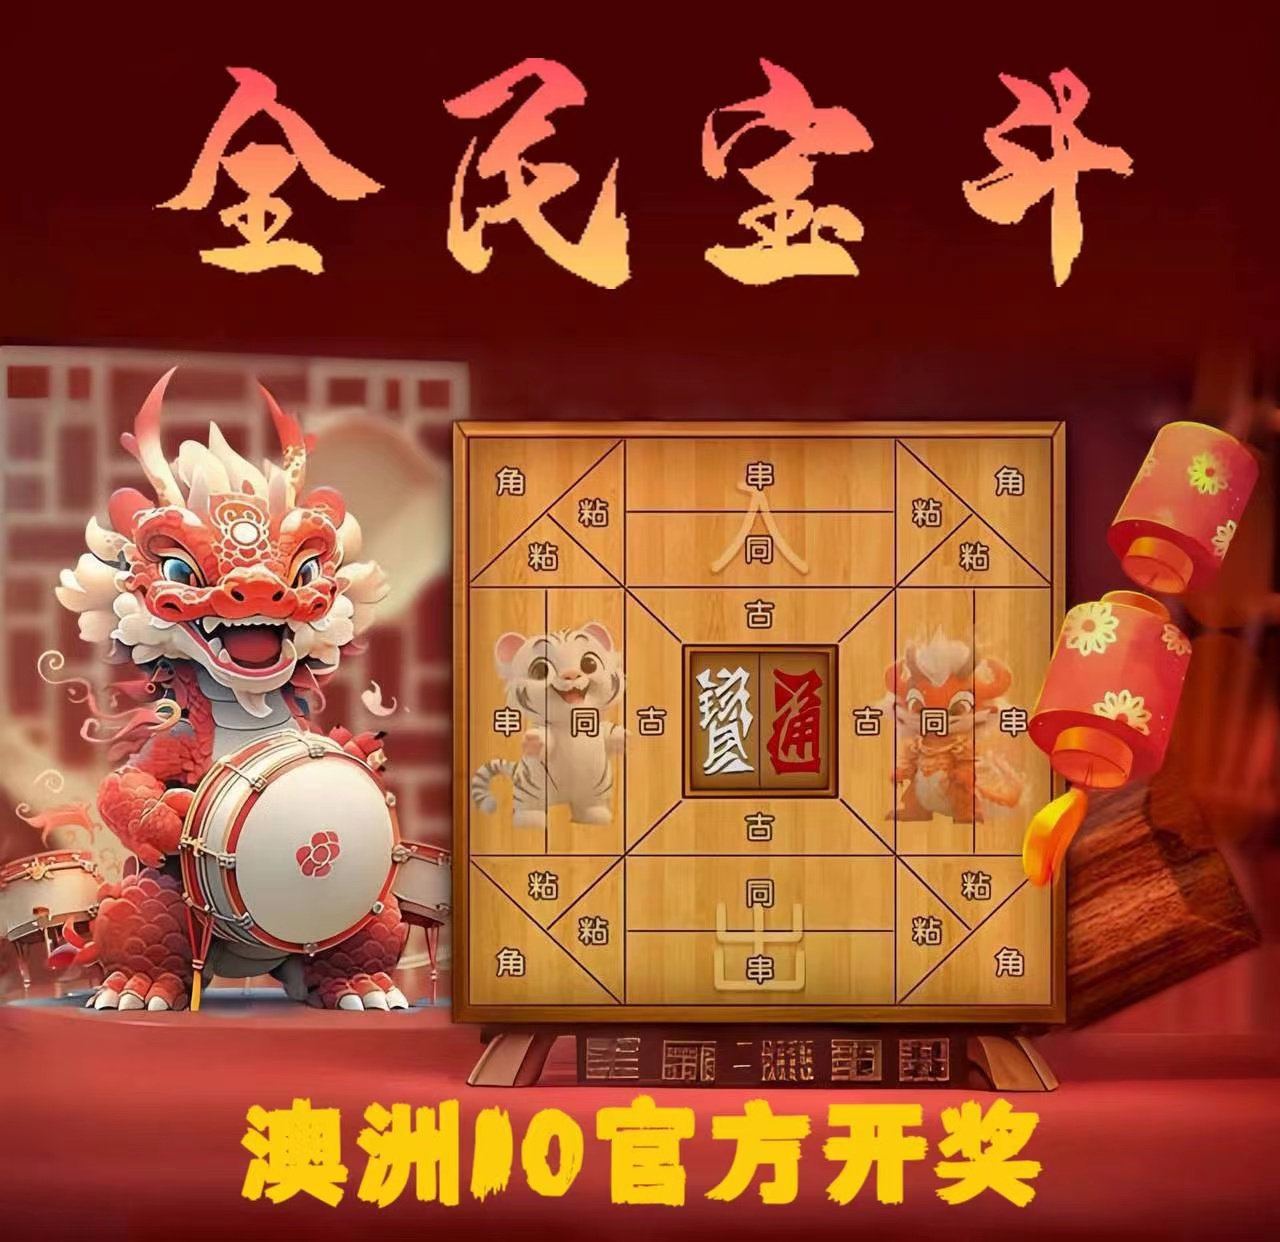
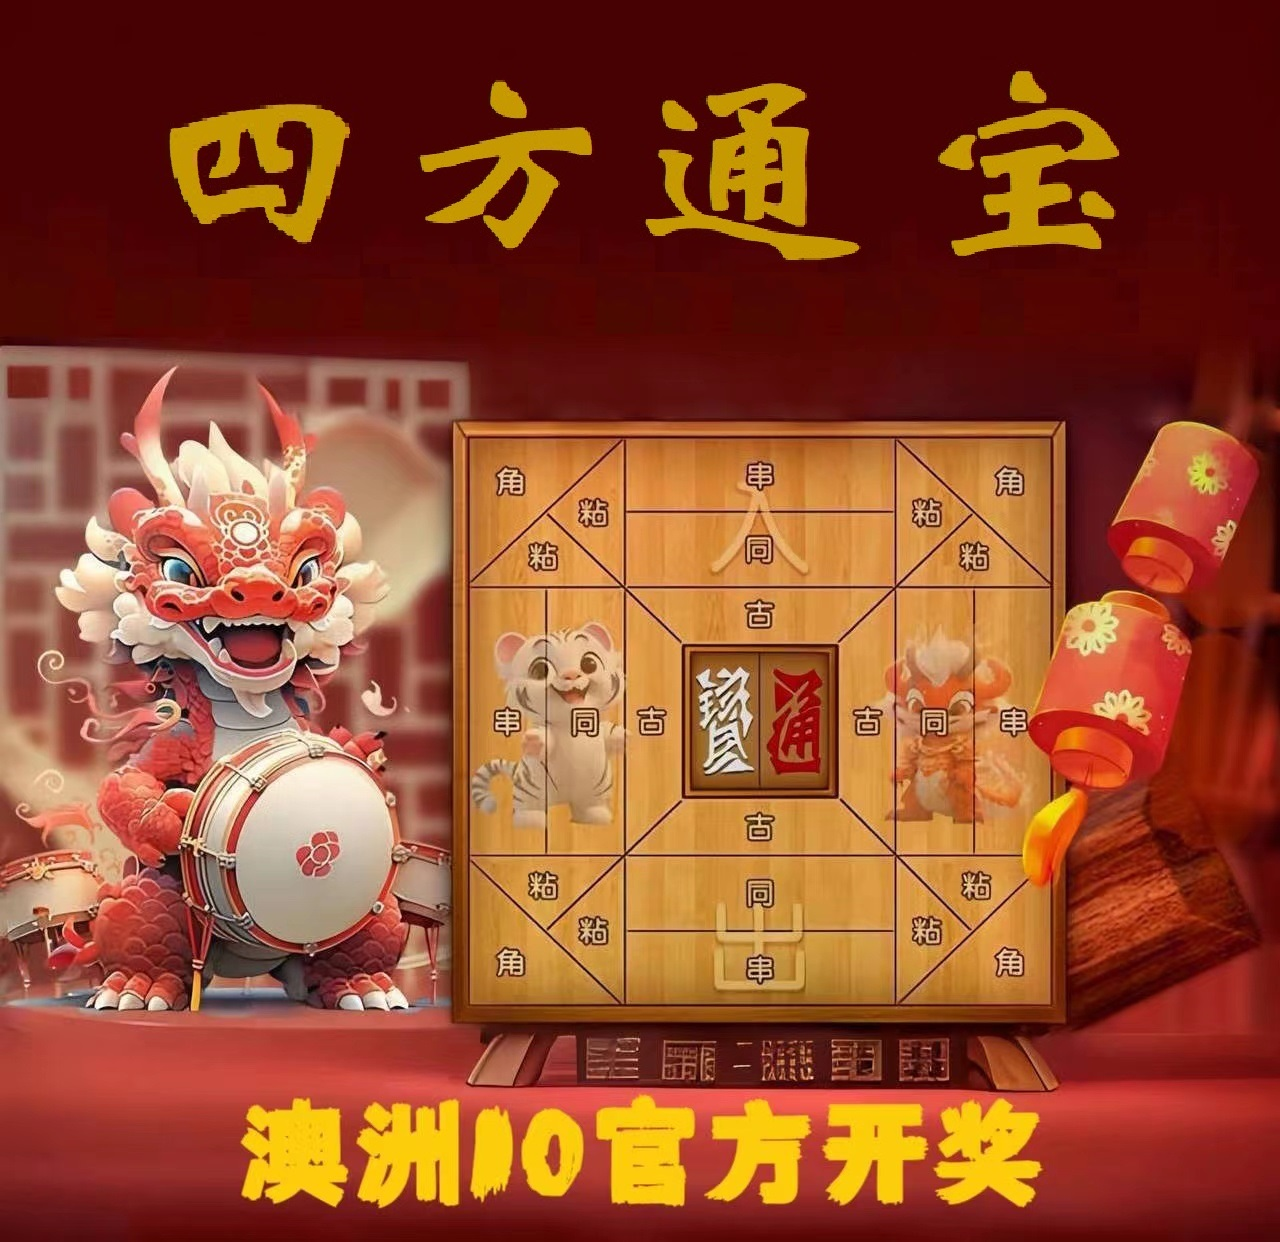
1

Changed region(s): [[0.125, 0.0306, 0.6875, 0.2448], [0.7188, 0.0306, 0.9062, 0.2448]]

diff --git a/bot-h5/pages/home/qmbd.vue b/bot-h5/pages/home/qmbd.vue
@@ -1,6 +1,6 @@
 <template>
 	<view class="qmbd-game">
-		<uni-nav-bar  title="全民宝斗" background-color="rgb(250,81,81)" color="#fff" left-icon="back" :border="false" right-text="规则" @clickLeft="goBack" @clickRight="openRule"></uni-nav-bar>
+		<uni-nav-bar  title="四方通宝" background-color="rgb(250,81,81)" color="#fff" left-icon="back" :border="false" right-text="规则" @clickLeft="goBack" @clickRight="openRule"></uni-nav-bar>
 		<view class="tab-bar">
 			<view class="tab-item" :class="tabIndex==0 ? 'active':''">宝斗</view>
 			<view class="tab-item" :class="tabIndex==1 ? 'active':''" @click="goRecord">下注记录</view>
@@ -230,30 +230,30 @@
 				fptime:0,
 				kjtime:0,
 				items:[
-					{index:'1',name:'虎入角',rate:1.97,rate1:0,check:false},
-					{index:'2',name:'入正念虎',rate:2.94,rate1:1,check:false},
-					{index:'3',name:'入正念龙',rate:2.94,rate1:1,check:false},
-					{index:'4',name:'龙入角',rate:1.97,rate1:0,check:false},
-					{index:'5',name:'虎正念入',rate:2.94,rate1:1,check:false},
-					{index:'6',name:'虎同',rate:2.94,rate1:1,check:false},
-					{index:'7',name:'入同',rate:2.94,rate1:1,check:false},
-					{index:'8',name:'入串',rate:1.97,rate1:0,check:false},
-					{index:'9',name:'龙同',rate:2.94,rate1:1,check:false},
-					{index:'10',name:'龙正念入',rate:2.94,rate1:1,check:false},
-					{index:'11',name:'虎正念出',rate:2.94,rate1:1,check:false},
-					{index:'12',name:'虎串',rate:1.97,rate1:0,check:false},
-					{index:'13',name:'出同',rate:2.94,rate1:1,check:false},
-					{index:'14',name:'出串',rate:1.97,rate1:0,check:false},
-					{index:'15',name:'龙串',rate:1.97,rate1:0,check:false},
-					{index:'16',name:'龙正念出',rate:2.94,rate1:1,check:false},
-					{index:'17',name:'虎出角',rate:1.97,rate1:0,check:false},
-					{index:'18',name:'出正念虎',rate:2.94,rate1:1,check:false},
-					{index:'19',name:'出正念龙',rate:2.94,rate1:1,check:false},
-					{index:'20',name:'龙出角',rate:1.97,rate1:0,check:false},
-					{index:'21',name:'入古',rate:3.91,rate1:0,check:false},
-					{index:'22',name:'龙古',rate:3.91,rate1:0,check:false},
-					{index:'23',name:'出古',rate:3.91,rate1:0,check:false},
-					{index:'24',name:'虎古',rate:3.91,rate1:0,check:false}
+					{index:'1',name:'虎入角',rate:1.96,rate1:0,check:false},
+					{index:'2',name:'入正念虎',rate:2.92,rate1:1,check:false},
+					{index:'3',name:'入正念龙',rate:2.92,rate1:1,check:false},
+					{index:'4',name:'龙入角',rate:1.96,rate1:0,check:false},
+					{index:'5',name:'虎正念入',rate:2.92,rate1:1,check:false},
+					{index:'6',name:'虎同',rate:2.92,rate1:1,check:false},
+					{index:'7',name:'入同',rate:2.92,rate1:1,check:false},
+					{index:'8',name:'入串',rate:1.96,rate1:0,check:false},
+					{index:'9',name:'龙同',rate:2.92,rate1:1,check:false},
+					{index:'10',name:'龙正念入',rate:2.92,rate1:1,check:false},
+					{index:'11',name:'虎正念出',rate:2.92,rate1:1,check:false},
+					{index:'12',name:'虎串',rate:1.96,rate1:0,check:false},
+					{index:'13',name:'出同',rate:2.92,rate1:1,check:false},
+					{index:'14',name:'出串',rate:1.96,rate1:0,check:false},
+					{index:'15',name:'龙串',rate:1.96,rate1:0,check:false},
+					{index:'16',name:'龙正念出',rate:2.92,rate1:1,check:false},
+					{index:'17',name:'虎出角',rate:1.96,rate1:0,check:false},
+					{index:'18',name:'出正念虎',rate:2.92,rate1:1,check:false},
+					{index:'19',name:'出正念龙',rate:2.92,rate1:1,check:false},
+					{index:'20',name:'龙出角',rate:1.96,rate1:0,check:false},
+					{index:'21',name:'入古',rate:3.88,rate1:0,check:false},
+					{index:'22',name:'龙古',rate:3.88,rate1:0,check:false},
+					{index:'23',name:'出古',rate:3.88,rate1:0,check:false},
+					{index:'24',name:'虎古',rate:3.88,rate1:0,check:false}
 				],
 				formData:{
 					money:'',

diff --git a/bot-h5/pages/user/report.vue b/bot-h5/pages/user/report.vue
@@ -33,7 +33,7 @@
 					<view class="row-col col4" v-if="item.orgtype==1">{{item.bailmoney  - item.comm}}</view>
 					<view class="row-col col4" v-else :class="item.num > 0?'link':''" @click="showRecord(item)">{{item.bailmoney - item.comm}}</view>
 					<view class="row-col col5">0</view>
-					<view class="row-col col6">{{item.loss}}</view>
+					<view class="row-col col6">{{item.loss - item.comm}}</view>
 				 </view>
 				 <view class="table-row" v-if="userRecord.length > 0">
 					<view class="row-col col1">合计</view>
@@ -41,7 +41,7 @@
 					<view class="row-col col3">{{userRecordSum.bailmoney}}</view>
 					<view class="row-col col4">{{userRecordSum.bailmoney - userRecordSum.comm}}</view>
 					<view class="row-col col5">0</view>
-					<view class="row-col col6">{{userRecordSum.loss}}</view>
+					<view class="row-col col6">{{userRecordSum.loss - userRecordSum.comm}}</view>
 				 </view>
 			 </view>
 		</view>
@@ -66,7 +66,7 @@
 					<view class="row-col col3">{{item.sumBAIL}}</view>
 					<view class="row-col col4" :class="item.nums > 0?'link':''" @click="showRecord(item)">{{item.realBail - item.comm}}</view>
 					<view class="row-col col5">0</view>
-					<view class="row-col col6">{{item.loss}}</view>
+					<view class="row-col col6">{{item.loss - item.comm}}</view>
 				 </view>
 				 <view class="table-row">
 					<view class="row-col col1">合计</view>
@@ -74,7 +74,7 @@
 					<view class="row-col col3">{{sum.sumBAIL}}</view>
 					<view class="row-col col4">{{sum.realBail - sum.comm}}</view>
 					<view class="row-col col5">0</view>
-					<view class="row-col col6">{{sum.loss}}</view>
+					<view class="row-col col6">{{sum.loss - sum.comm}}</view>
 				 </view>
 			 </view>
 		</view>
@@ -156,6 +156,9 @@
 					clevel:parseInt(this.clevel) + 1,
 					startDate:this.searchForm.startDate + ' 00:00:00',
 					endDate:this.searchForm.endDate + ' 23:59:59'
+				}
+				if(this.orgtype==2){
+					para.clevel = 100
 				}
 				this.$http.post('/Query/SubLevelSumList',para,res=>{
 					this.userRecord = res.rData || []

diff --git a/bot-h5/pages/user/user.vue b/bot-h5/pages/user/user.vue
@@ -89,7 +89,7 @@
 						{name:'开奖公告',icon:'../../static/images/user/kjgg.png',path:'./result'},
 						{name:'投注记录',icon:'../../static/images/user/tzjl.png',path:'./order'},
 						{name:'平台公告',icon:'../../static/images/user/ptgg.png',path:'./notice'},
-						// {name:'报表查询',icon:'../../static/images/user/bbcx.png',path:'./report'},
+						{name:'报表查询',icon:'../../static/images/user/bbcx.png',path:'./report'},
 						{name:'修改密码',icon:'../../static/images/user/pwd.png',path:'./updatePwd'},
 					]
 				}

diff --git a/bot-h5/pages/user/account.vue b/bot-h5/pages/user/account.vue
@@ -33,7 +33,8 @@
 								<view v-else>类型：{{getStatus(tabIndex)}}</view>
 							</view>
 							<view class="row-item">
-								<view>信用额度：{{item.enable}}</view>
+								<view v-if="item.orgtype==1">信用额度：{{item.enable}}/<text style="color:red">{{item.usequity}}</text></view>
+								<view v-else>信用额度：{{item.enable}}</view>
 								<view>状态：<text :class="'sex'+item.sex">{{getSexLabel(item.sex)}}</text></view>
 							</view>
 					  	</view>
